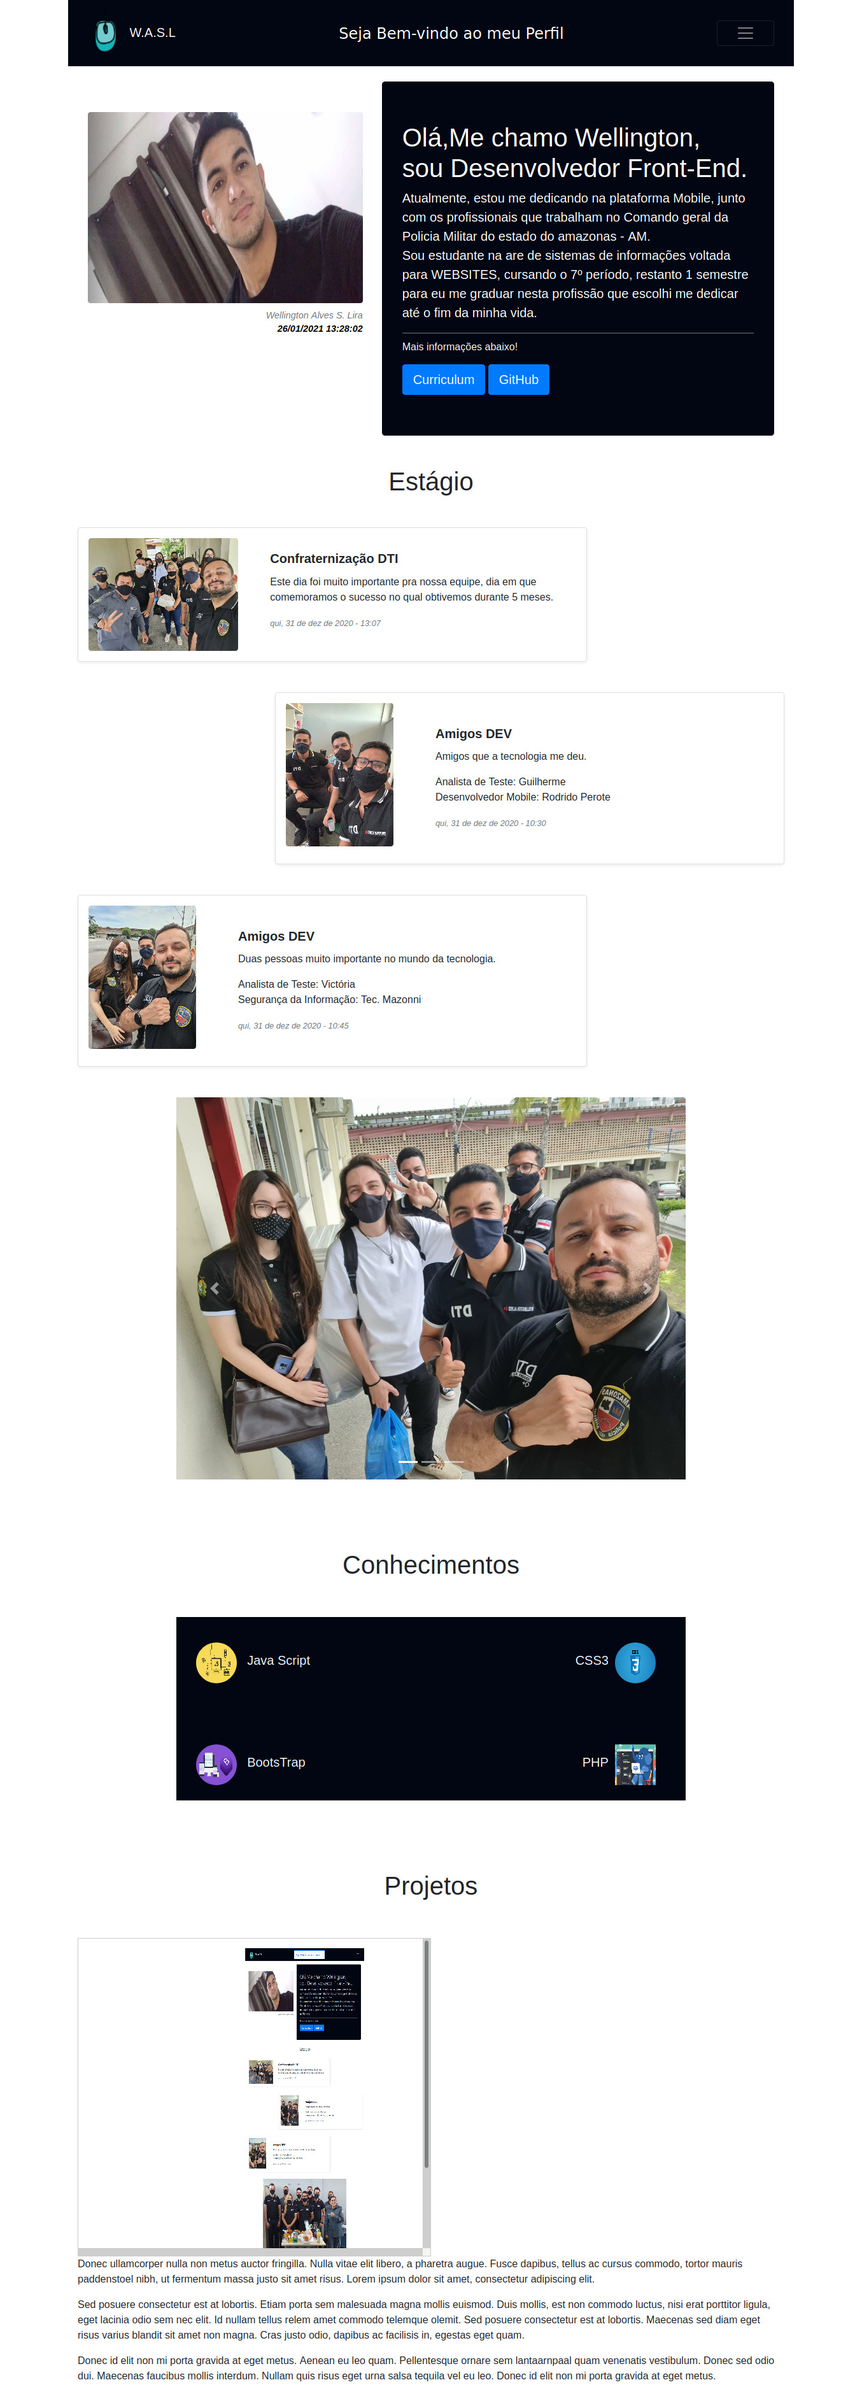
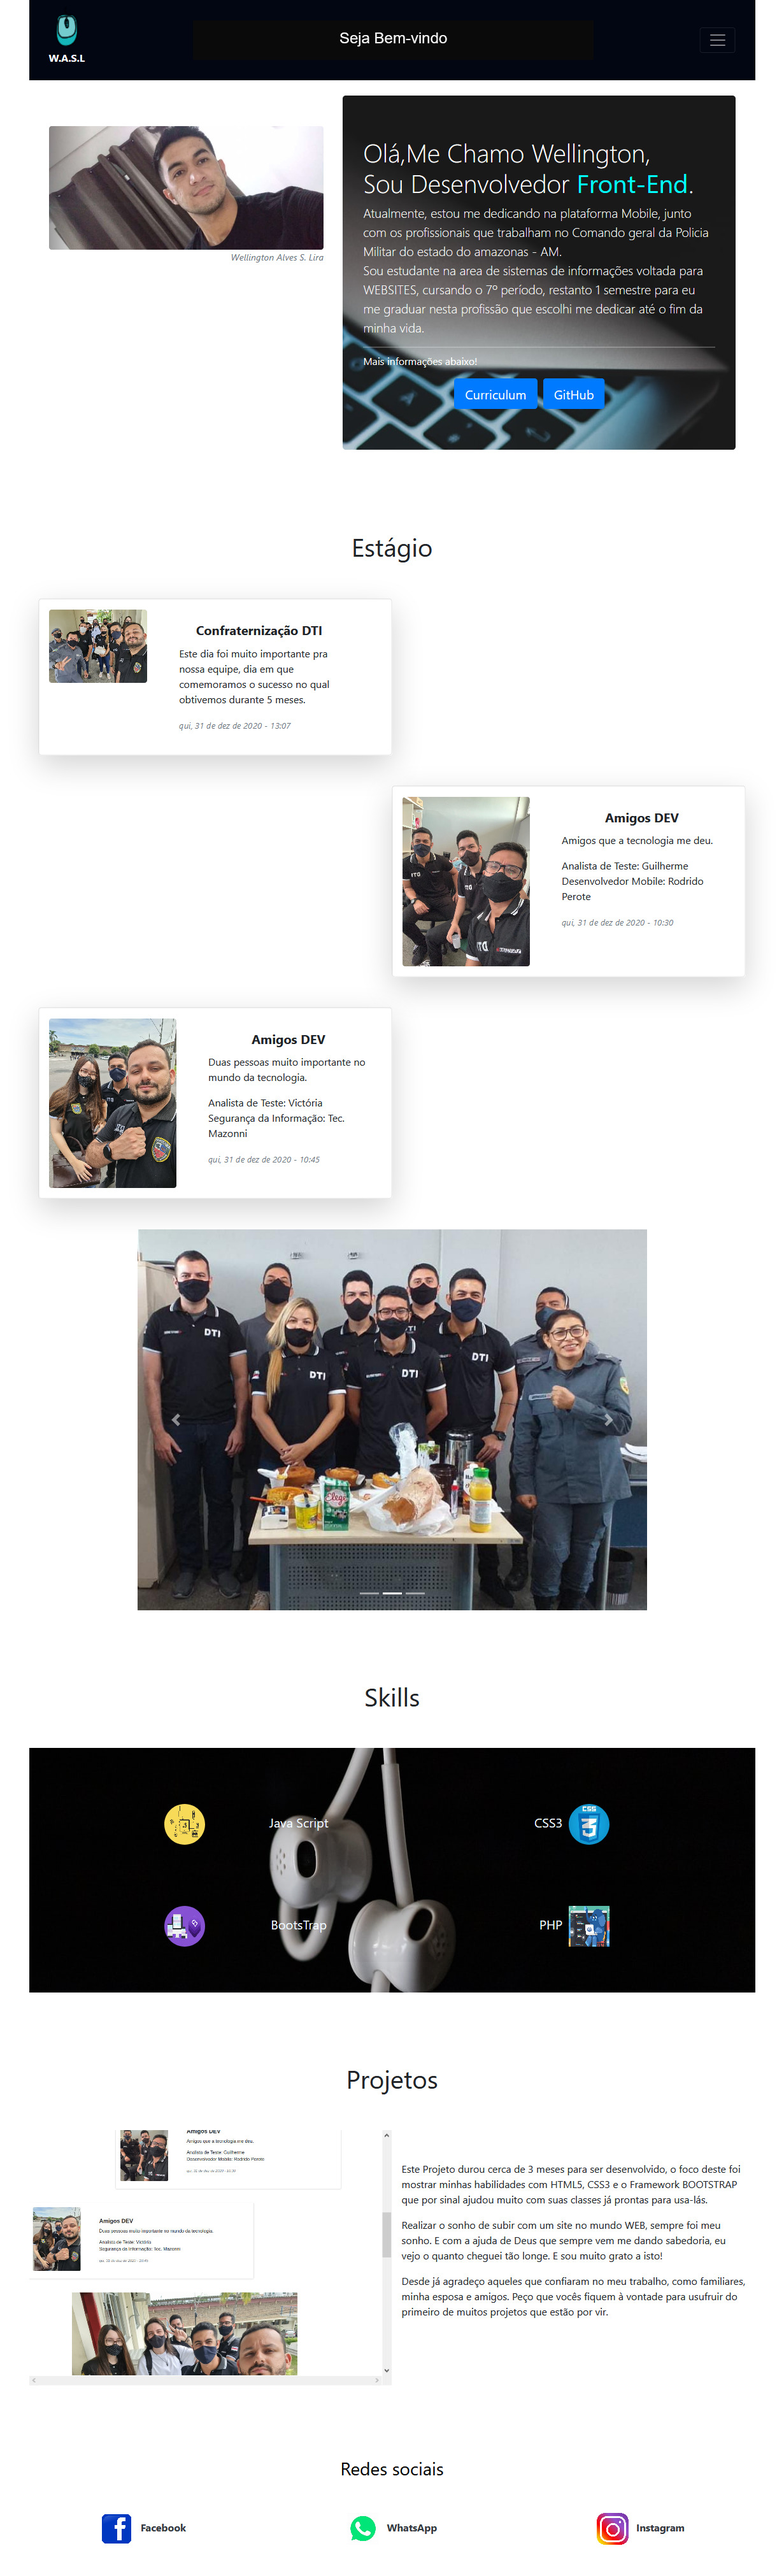
alterações nos btn e no bg footer

diff --git a/index.html b/index.html
@@ -29,7 +29,7 @@
         <span class=" flutua-esq navbar-toggler-icon"></span>
       </button>
       <div class="collapse navbar-collapse btn-nav" id="navbarNavDropdown">
-        <ul class="navbar-nav">
+        <ul class="navbar-nav ul-menu">
           <li class="nav-item">
             <a class="nav-link active" aria-current="page" href="#">Home</a>
           </li>
@@ -53,7 +53,7 @@
 
       <div class="col-lg-5 mt-5">
         <figure class="figure">
-          <img src="img/foto_perfil.jpeg" class="img-fluid rounded " style="height: 300px;">
+          <img src="img/foto_perfil.jpeg" class="img-fluid rounded">
           <figcaption class="figure-caption img-quemsou text-right fst-italic">
             Wellington Alves S. Lira<br>
             <span style="color: black; font-weight: bold;" id="dh_atual"></span>
@@ -71,7 +71,7 @@
           </p>
           <hr class="my-2">
           <p>Mais informações abaixo!</p>
-          <a class="btn btn-primary btn-lg" href="CV-Wellington_Alves_Lira.docx" role="button">Curriculum</a>
+          <a class="btn btn-lg btn-primary"  href="CV-Wellington_Alves_Lira.docx" role="button">Curriculum</a>
           <a class="btn btn-primary btn-lg" href="https://github.com/WellingtonAlvesLira" role="button">GitHub</a>
         </div>
       </div>
@@ -222,11 +222,11 @@
   <section class="container">
      <div class="row">
 
-      <div id="overflow-my-projetos" class="col-lg-6">
-        <img src="img/foto-projeto.jpg" style="max-width: 600px;" class=" float-md-end" alt="...">
+      <div id="overflow-my-projetos" class="col-lg-7">
+        <img src="img/foto-projeto.jpg" style="width: 100%;" class=" float-md-end" alt="...">
       </div>
 
-      <div class="col-lg-6 mt-5">
+      <div class="col-lg-5 mt-5">
         <p>
           Este Projeto durou cerca de 3 meses para ser desenvolvido, o foco deste foi mostrar minhas habilidades
           com HTML5, CSS3 e o Framework BOOTSTRAP que por sinal ajudou muito com suas classes já prontas para usa-lás.
@@ -238,7 +238,7 @@
         </p>
 
         <p>
-          Desde já agradeço aqueles que confiaram no meu trabalho, como familiares, minha esposa e amigos.
+          Desde já agradeço aqueles que confiaram no meu trabalho, como familiares,amigos e também a minha filha que agora é minha maior Inspiração.
           Peço que vocês fiquem à vontade para usufruir do primeiro de muitos projetos que estão por vir.
         </p>
       </div>
@@ -247,30 +247,30 @@
 
   </section>
 
-  <div class="alert  mb-0" style="background:black;margin-top:100px; height: 200px;">
+  <div class="alert  mb-0" style="margin-top:100px; height: 200px;">
       
-    <h3 style="text-align: center; color: white; margin-bottom: 30px;">Redes sociais</h3>
+    <h3 style="text-align: center; color: rgb(8, 8, 8); margin-bottom: 30px;">Redes sociais</h3>
 
-    <div class="row p-4">
+    <div class="row p-4 ">
 
-      <div class="col-4 d-flex justify-content-center">
+      <div class="col-4 d-flex justify-content-center ">
         <a href="https://www.facebook.com/wellingtton.lira/">
         <img src="img/footer-face.png" style="width: 50px;" alt="Facebook">
-        <p class="d-inline ml-2 mt-2 text-white">Facebook</p>
+        <p class="d-inline ml-2 mt-2 text-dark font-weight-bold">Facebook</p>
         </a>
       </div>
 
       <div  class="col-4 d-flex justify-content-center">
         <a href="https://wa.me/qr/4CHK4JIXWPYYP1">
         <img src="img/footer-what.jpeg" style="width: 50px;" alt="WhatsApp">
-        <p class="d-inline ml-2 mt-2  text-white">WhatsApp</p>
+        <p class=" text-rodape d-inline ml-2 mt-2  text-dark font-weight-bold">WhatsApp</p>
         </a>
       </div>
 
-      <div  class="col-4 d-flex justify-content-center  ">
+      <div  class="col-4 d-flex justify-content-center    ">
         <a href="https://www.instagram.com/wellingtonnalves/">
         <img src="img/footer-insta.png" style="width: 50px;" alt="Instagram">
-        <p class="d-inline ml-2 text-white">Instagram</p>
+        <p class="d-inline ml-2 text-dark font-weight-bold">Instagram</p>
         </a>
       </div>
 

diff --git a/css/style.css b/css/style.css
@@ -18,12 +18,7 @@
     }
   }
 
-
-
-
-
-
- /*Animações das minhas Skill(my-projetos)*/
+/*Animações das minhas Skill(my-projetos)*/
   #animation-skill{
     position: relative;
     animation: my-skill 4s infinite;
@@ -41,14 +36,13 @@
  /*Barra de rolagem my-projetos*/ 
 #overflow-my-projetos {
     color: white;
-    padding: 10px;
     width: auto;
     height: 400px;
     overflow: scroll;
   }
 
 
-  @media screen and (max-width:414px){
+  @media (max-width:414px){
 
     .img-responsive{
       width: 50%;
@@ -89,6 +83,21 @@
       float: left;
     }
 
+    .ul-menu{
+      text-align: center;
+    }
+
+    .btn-lg{
+      position: relative;
+      left: 4%;
+      margin-left: 5px;
+      color: white;
+     }
+
+     .text-rodape{
+       color: brown;
+     }
+
     .titulo-nav-mobile{
       font-family: 'Roboto', sans-serif;   
       text-align: center; 
@@ -120,6 +129,13 @@
     
       }
 
+      #overflow-my-projetos {
+        color: white;
+        width: 400px;
+        height: 400px;
+        overflow-x: scroll;
+      }
+
   }
 
 
@@ -135,10 +151,6 @@
     text-align: center;
   }
 
-  p{
-    text-align: center;
-  }
-
   .quem-sou-eu{
     width: 50%;
   }
@@ -149,9 +161,10 @@
   }
 
   .btn-lg{
-    position: relative;
-    left: 30px;
-    margin: 3px;
+   position: relative;
+   left: 25%;
+   margin-left: 5px;
+   color: white;
   }
 
   .titulo-nav{
